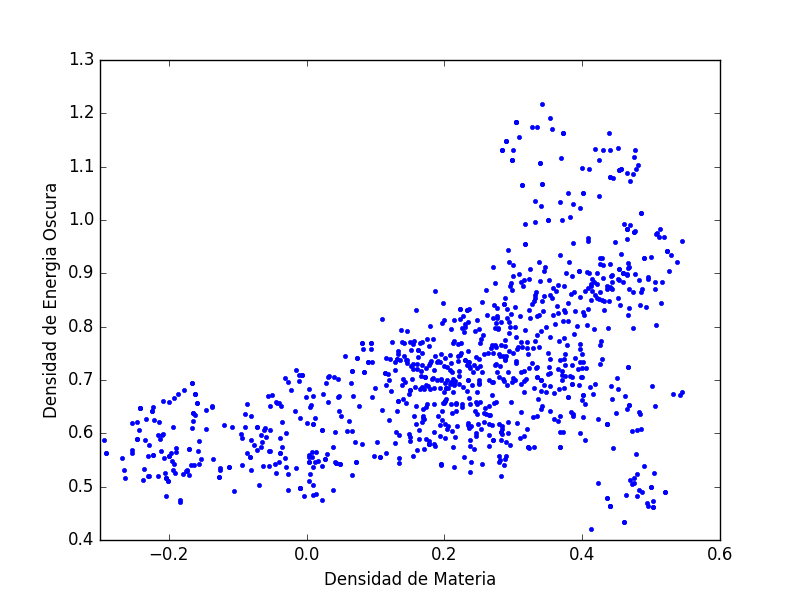
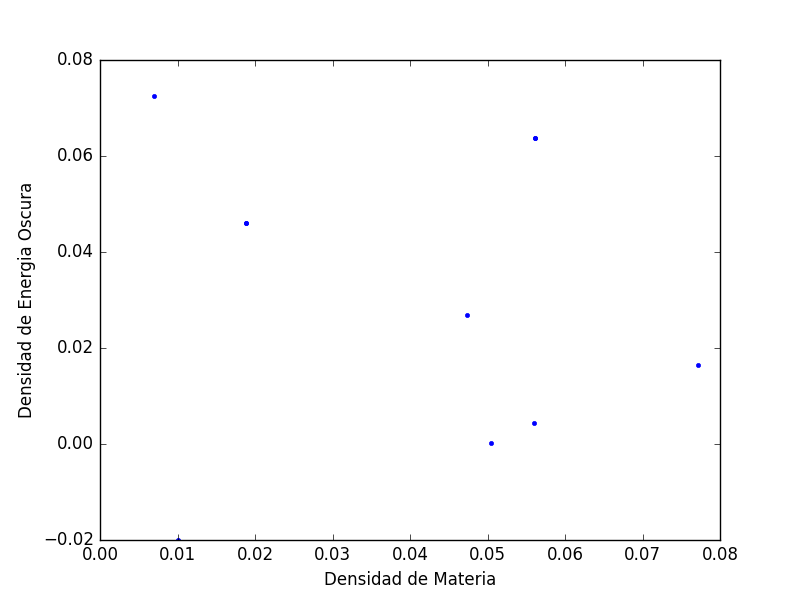
detalles
cambios en el programa (optimizacion)
guardar datos para procesarlos despues
limita valores negativos
-- falta marginalizar mu 0

diff --git a/montecarloprimerintento.py b/montecarloprimerintento.py
@@ -176,53 +176,30 @@ def likelihood(beta, datos, error, model=0):
         s = np.sum((y - mu_th(beta, x, modelo=0)) ** 2)
         L = (2 * np.pi * error ** 2) ** (-N / 2) * np.exp(-s /
                                                           (2 * error ** 2))
-    return L
+    return L, s
 
 
-def fill_likelihood(beta_grid, datos, error, model=0):
-    '''
-    rellena la grilla para verosimilitud de los parametros.
-    '''
-    if model == 1:
-        d_m_grid, d_de_grid, w_0_grid, w_a_grid = beta_grid
-        sal = np.zeros(d_m_grid.shape)
-        ni, nj, nk, nl = d_m_grid.shape
-        for i in range(ni):
-            for j in range(nj):
-                for k in range(nk):
-                    for l in range(nl):
-                        sal[i, j, k, l] = likelihood([d_m_grid[i, j, k, l],
-                                                      d_de_grid[i, j, k, l],
-                                                      w_0_grid[i, j, k, l],
-                                                      w_a_grid[i, j, k, l]],
-                                                     datos, error, 1)
-    elif model == 0:
-        d_m_grid, d_de_grid = beta_grid
-        sal = np.zeros(d_m_grid.shape)
-        ni, nj = d_m_grid.shape
-        for i in range(ni):
-            for j in range(nj):
-                sal[i, j] = likelihood([d_m_grid[i, j], d_de_grid[i, j]],
-                                       datos, error, 0)
-    return sal
-
-
-def paso_metropolis(p0, prior_params, datos, error=1, d=0.05, modelo=0):
-    c = chi_cuadrado(p0, datos[0], datos[1], mu_th)
-    print("chi cuadrados: "+str(c))
+def paso_metropolis(p0, prior_params, datos, a, error=1, d=0.05, modelo=0):
     if modelo == 0:
         x0, y0 = p0
         rx = np.random.uniform(low=-1, high=1)
         ry = np.random.uniform(low=-1, high=1)
         xp = x0 + d * rx
         yp = y0 + d * ry
-        posterior_p0 = prior([x0, y0], prior_params) * likelihood([x0, y0], datos, error)
-        posterior_pp = prior([xp, yp], prior_params) * likelihood([xp, yp], datos, error)
+        while xp < 0 or yp < 0:
+            rx = np.random.uniform(low=-1, high=1)
+            ry = np.random.uniform(low=-1, high=1)
+            xp = x0 + d * rx
+            yp = y0 + d * ry
+        L_0 = likelihood([x0, y0], datos, error)
+        L_p = likelihood([xp, yp], datos, error)
+        posterior_p0 = prior([x0, y0], prior_params) * L_0[0]
+        posterior_pp = prior([xp, yp], prior_params) * L_p[0]
         P = posterior_pp / posterior_p0
         R = np.random.uniform(0, 1)
-        print("cuociente probabilidades: "+str(P/R))
         if P > R:
             p0 = [xp, yp]
+            a += 1
             print "se acepta"
     elif modelo == 1:
         x0, y0, u0, v0 = p0
@@ -234,58 +211,61 @@ def paso_metropolis(p0, prior_params, datos, error=1, d=0.05, modelo=0):
         yp = y0 + d * ry
         up = u0 + d * ru
         vp = v0 + d * rv
-        posterior_p0 = prior([x0, y0, u0, v0], prior_params) * likelihood([x0, y0, u0, v0], datos, error)
-        posterior_pp = prior([xp, yp, up, vp], prior_params) * likelihood([xp, yp, up, vp], datos, error)
+        while xp < 0 or yp < 0 or up < 0 or vp < 0:
+            rx = np.random.uniform(low=-1, high=1)
+            ry = np.random.uniform(low=-1, high=1)
+            ux = np.random.uniform(low=-1, high=1)
+            vy = np.random.uniform(low=-1, high=1)
+            xp = x0 + d * rx
+            yp = y0 + d * ry
+            up = u0 + d * ru
+            vp = v0 + d * rv
+        L_0 = likelihood([x0, y0, u0, v0], datos, error)
+        L_p = likelihood([xp, yp, up, vp], datos, error)
+        posterior_p0 = prior([x0, y0, u0, v0], prior_params) * L_0[0]
+        posterior_pp = prior([xp, yp, up, vp], prior_params) * L_p[0]
         P = posterior_pp / posterior_p0
         R = np.random.uniform(0, 1)
         if P > R:
             p0 = [xp, yp, up, vp]
-    print("parametros: "+str(p0))
-    return p0
+    return p0, L_0[1], a
 
 
 def monte_carlo(p0, prior_params, N, datos, error=1, d=0.05, modelo=0):
+    a = 0
     if modelo == 0:
         muestra_met = np.zeros((N, 2))
+        chi_cuad = np.zeros(N)
         muestra_met[0] = [p0[0], p0[1]]
-        rechazados = 0
         for i in range(1, N):
-            muestra_met[i] = paso_metropolis(muestra_met[i-1], prior_params, datos, error, d, modelo) # intentar 0.1, 0.5, 1., 3., 10.
-            if muestra_met[i][0] == muestra_met[i-1][0]:
-                rechazados += 1
+            P_M = paso_metropolis(muestra_met[i-1], prior_params, datos, a, error, d, modelo)
+            muestra_met[i] = P_M[0] # intentar 0.1, 0.5, 1., 3., 10.
+            chi_cuad[i-1] = P_M[1]
+            a = P_M[2]
             print("contador: "+str(i))
     elif modelo == 1:
         muestra_met = np.zeros((N, 4))
+        chi_cuad = np.zeros((N, 2))
         muestra_met[0] = [p0[0], p0[1], p0[2], p0[3]]
-        rechazados = 0
         for i in range(1, N):
-            muestra_met[i] = paso_metropolis(muestra_met[i-1], prior_params, datos, d, error, d, modelo) # intentar 0.1, 0.5, 1., 3., 10.
-            if muestra_met[i][0] == muestra_met[i-1][0]:
-                rechazados += 1
+            P_M = paso_metropolis(muestra_met[i-1], prior_params, datos, d, error, d, modelo)
+            muestra_met[i] = P_M[0] # intentar 0.1, 0.5, 1., 3., 10.
+            chi_cuad[i-1] = P_M[1]
+            a = P_M[2]
             print("contador: "+str(i))
-    fig = plt.figure()
-    fig.clf()
-    ax1 = fig.add_subplot(111)
-    #ax1.xlim(-0.2, 1.2)
-    #ax1.ylim(-0.2, 1.2)
-    ax1.plot(muestra_met[:,0], muestra_met[:,1], '.')
-    #ax1.plot(muestra_met[:,0], muestra_met[:,1], marker='None', ls='-', lw=0.3, color='w')
-    ax1.set_xlabel("Densidad de Materia")
-    ax1.set_ylabel("Densidad de Energia Oscura")
-    plt.legend(loc=4)
-    plt.savefig("mcmc.png")
-    plt.draw()
-    plt.show()
+    # guardar datos
+    np.save('param_mcmc.npy', muestra_met)
+    np.save('chi.npy', chi_cuad)
+    np.save('rechazados.npy', a)
     '''
     plt.plot(muestra_met[:,0], muestra_met[:,1], marker='None', ls='-', lw=0.3, color='w')
     '''
-    return muestra_met, rechazados
+    return muestra_met, chi_cuad, a
 
 
 def chi_cuadrado(p, x, y, f):
     S = np.sum((y - f(p, x)) ** 2)
     return S
-
 
 
 # inicializacion
@@ -295,6 +275,26 @@ datos = z, mu - mu_0
 beta_grid1 = np.mgrid[0.:1.:50j, 0.:1.:50j]
 d_m_grid, d_de_grid = beta_grid1
 adivinanza1 = [0.2, 0.3, 0.8, 0.5]
-N = 1000
-p0 = 0.5, 0.5
+N = 500
+p0 = 0.3, 0.9
 resultados = monte_carlo(p0, adivinanza1, N, datos)
+A = np.load('param_mcmc.npy')
+B = np.load('chi.npy')
+C = np.load('rechazados.npy')
+print("parametros: "+str(A))
+print("chi cuadrados: "+str(B))
+print("rechazados: "+str(C))
+# grafico
+fig = plt.figure()
+fig.clf()
+ax1 = fig.add_subplot(111)
+#ax1.xlim(-0.2, 1.2)
+#ax1.ylim(-0.2, 1.2)
+ax1.plot(A[:,0], A[:,1], '.')
+#ax1.plot(muestra_met[:,0], muestra_met[:,1], marker='None', ls='-', lw=0.3, color='w')
+ax1.set_xlabel("Densidad de Materia")
+ax1.set_ylabel("Densidad de Energia Oscura")
+plt.legend(loc=4)
+plt.savefig("mcmc.png")
+plt.draw()
+plt.show()
